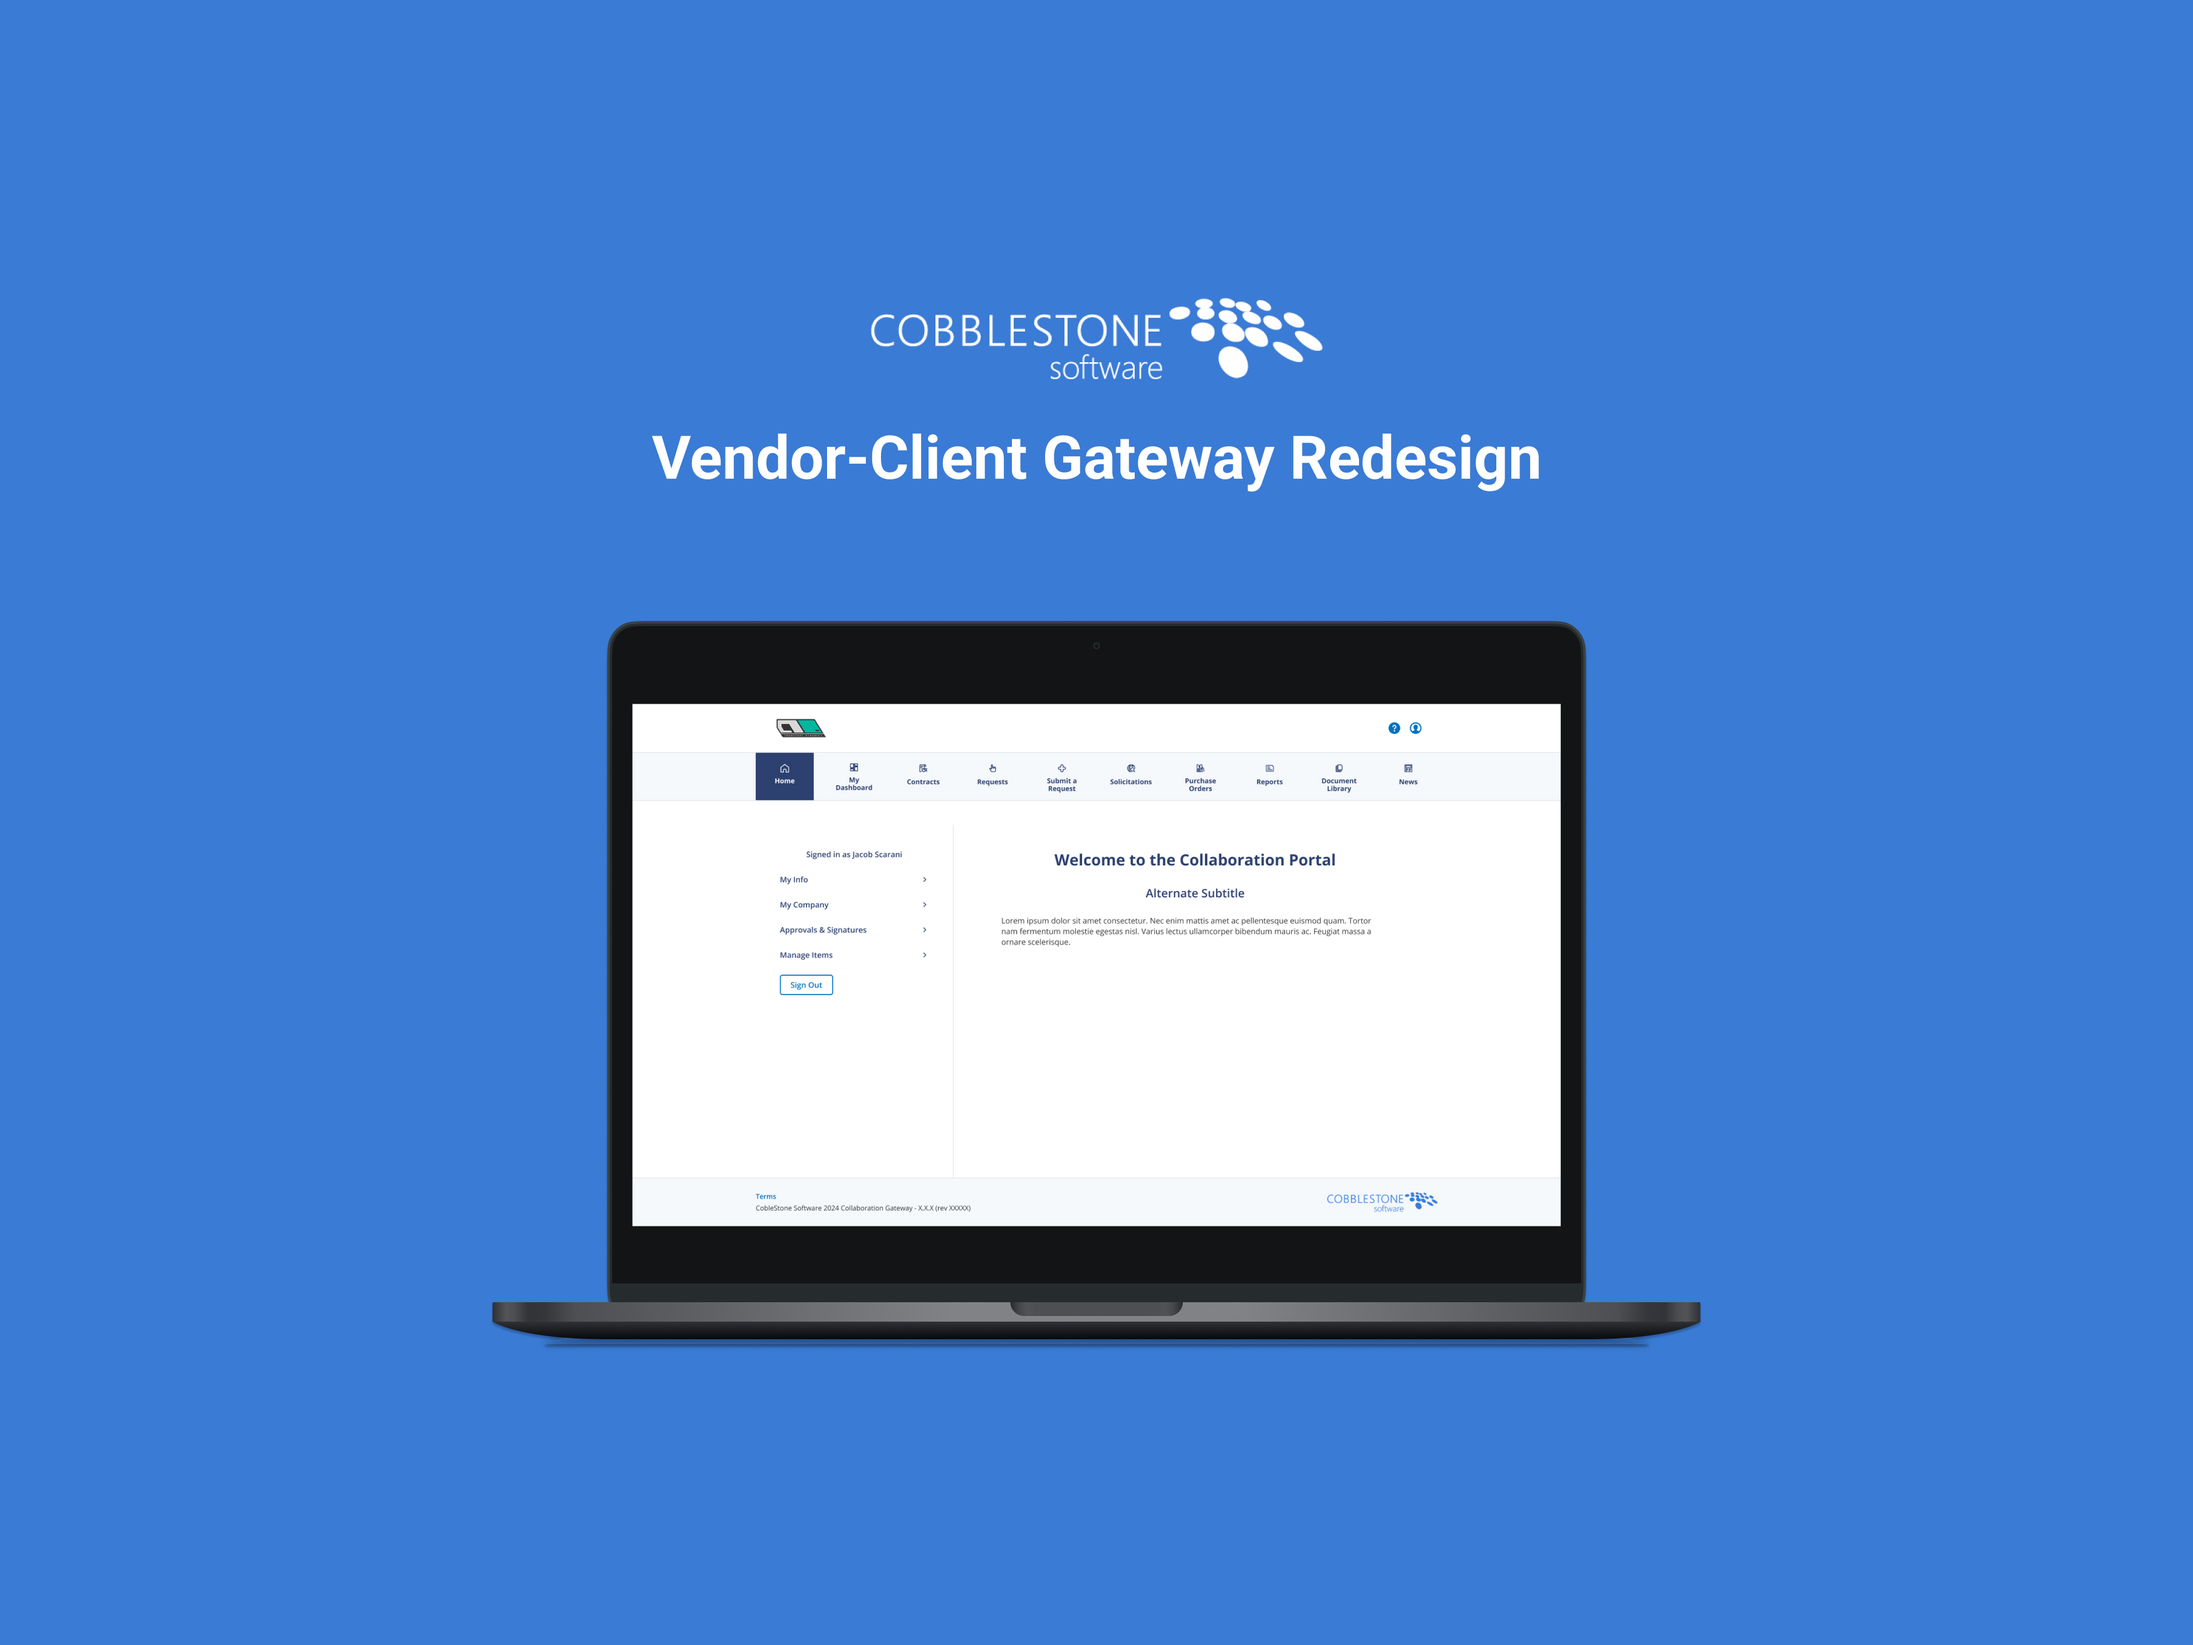
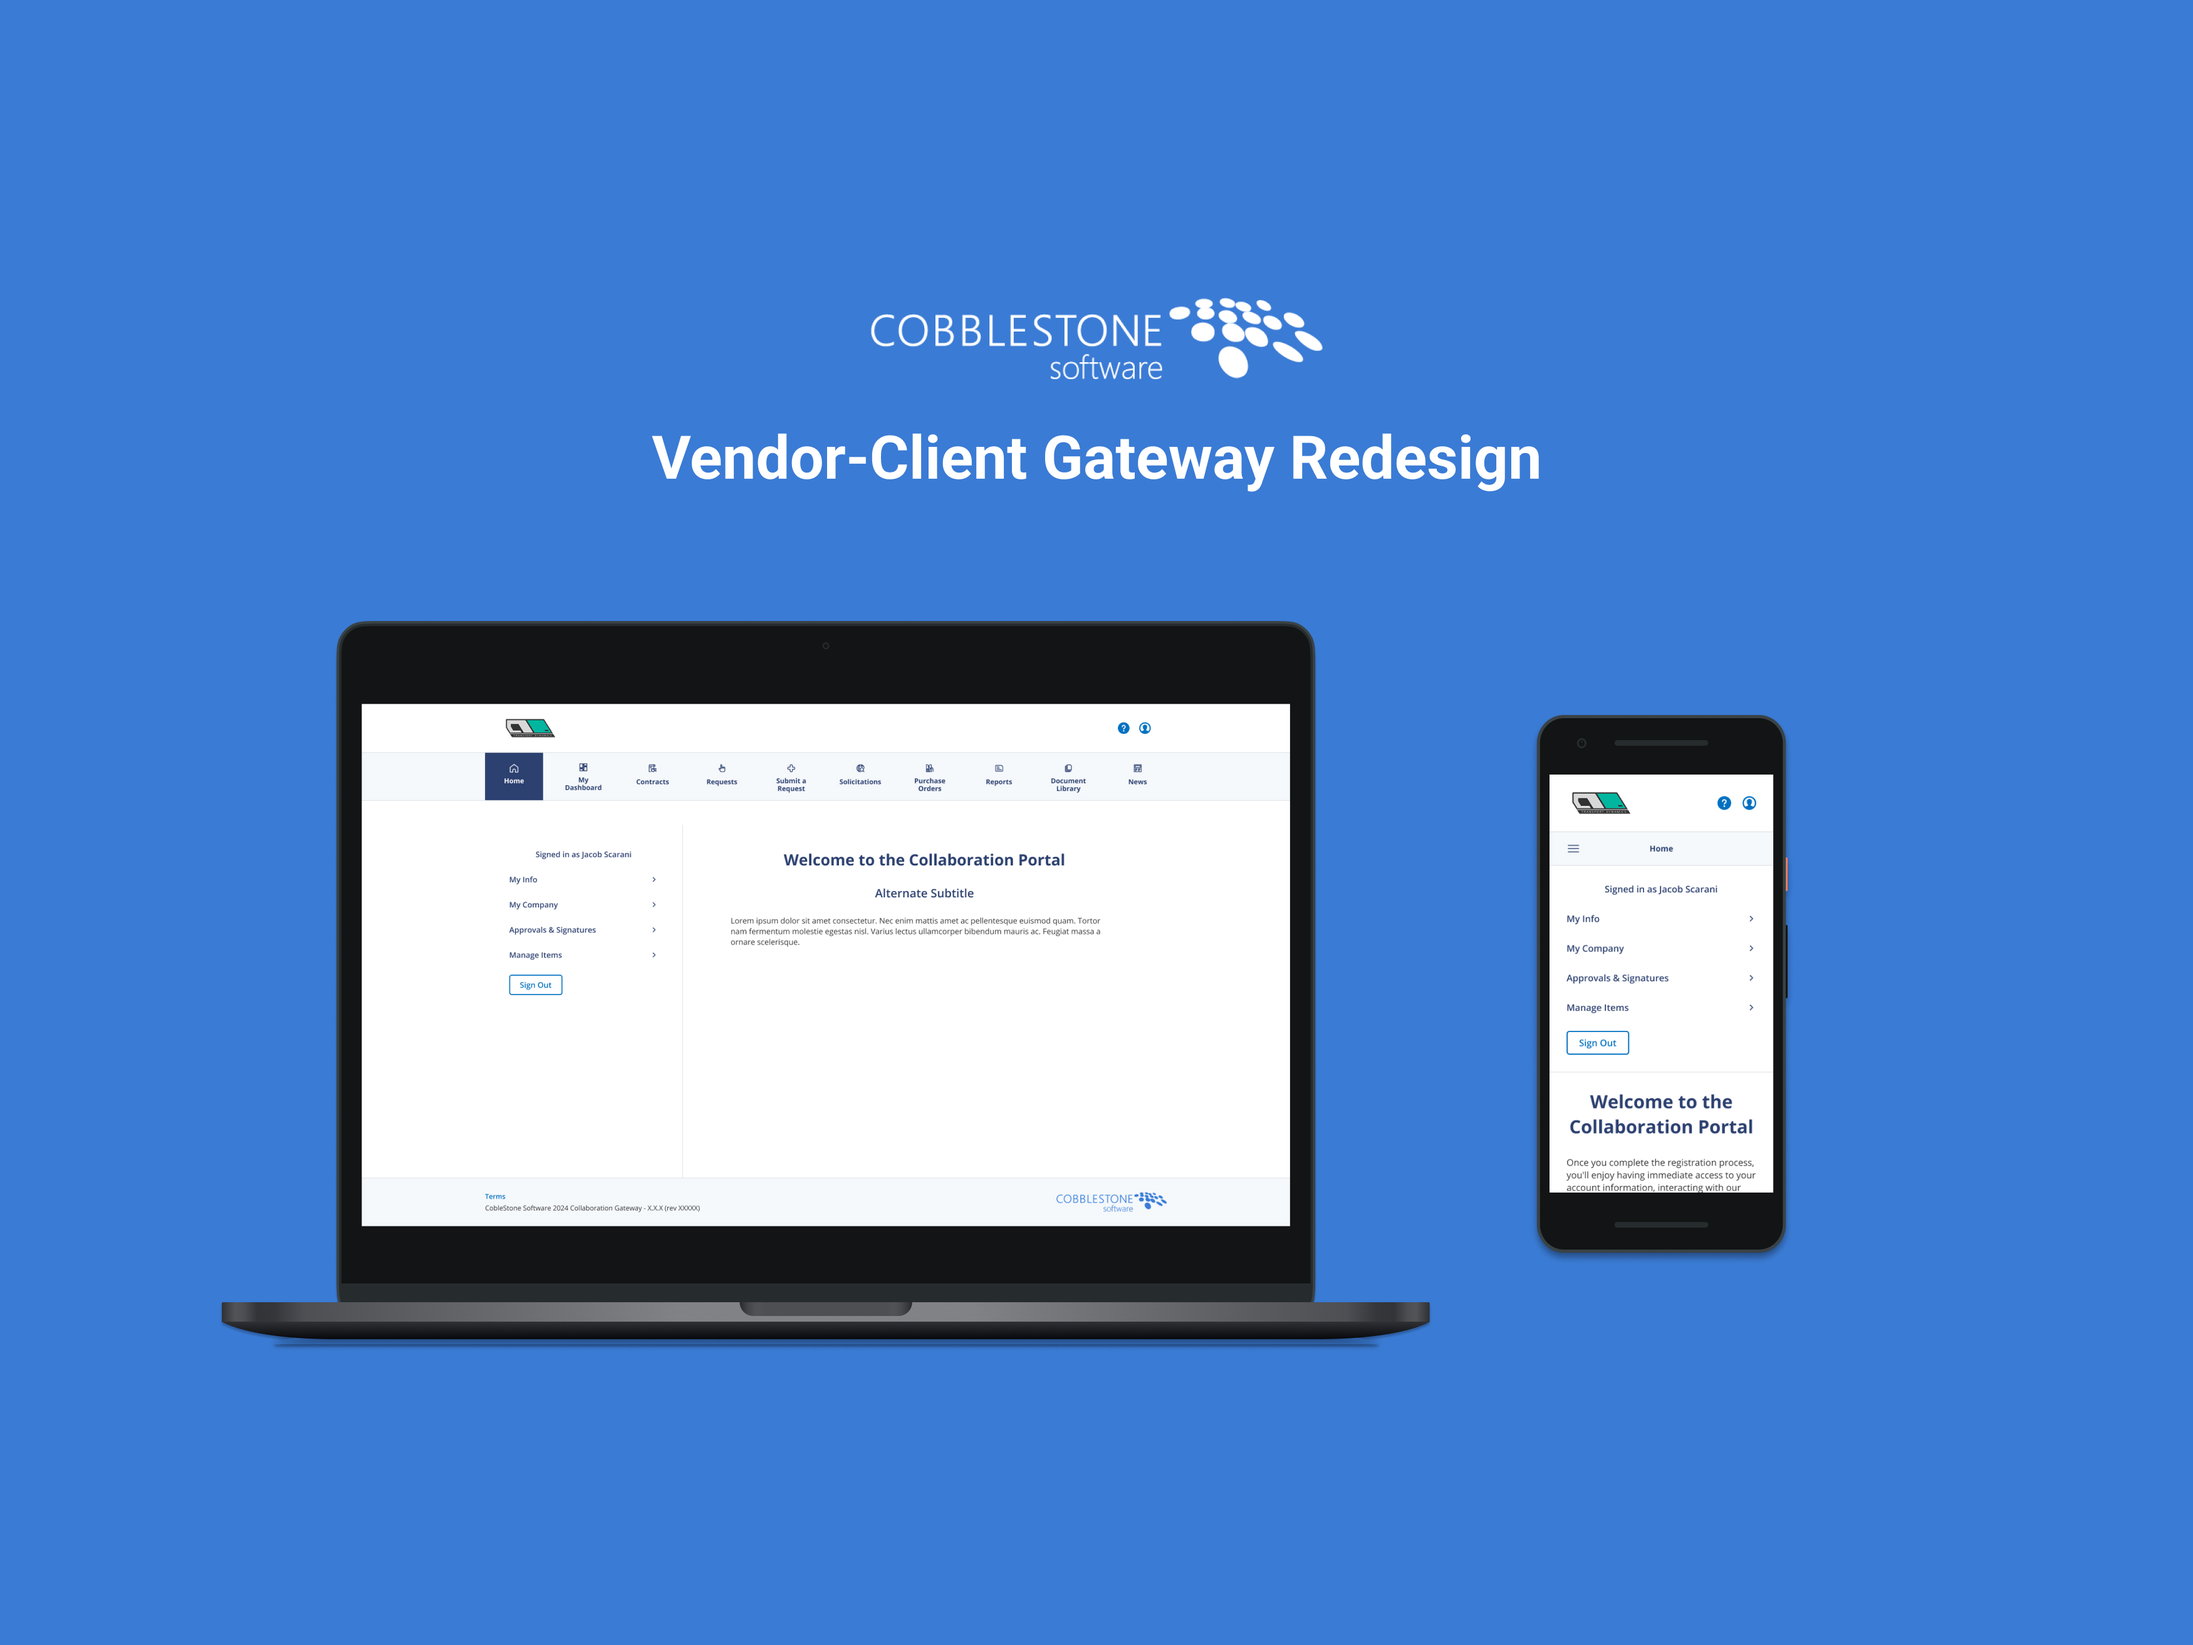
Added mobile screens to VCG projects

diff --git a/content/en/project/VCG/index.md b/content/en/project/VCG/index.md
@@ -101,6 +101,14 @@ Some important decisions I made in the design process included
 
 <img src="/portfolio/VCG/new-news.png" width="720" alt="a screenshot of the redesigned news page">
 
+#### Mobile
+
+<img src="/portfolio/VCG/Mobile-Home.png" width="720" alt="a screenshot of the the new mobile home page">
+
+<img src="/portfolio/VCG/Mobile-Solicitations.png" width="720" alt="a screenshot of the new mobile solicitations pages">
+
+<img src="/portfolio/VCG/Mobile-News.png" width="720" alt="a screenshot of the new mobile news pages">
+
 ### Future Plans
 
 The designs shown here show just a snapshop of the all the areas of the vendor client gateway. The designs shown here are for first phase of a 3-phase rollout:
